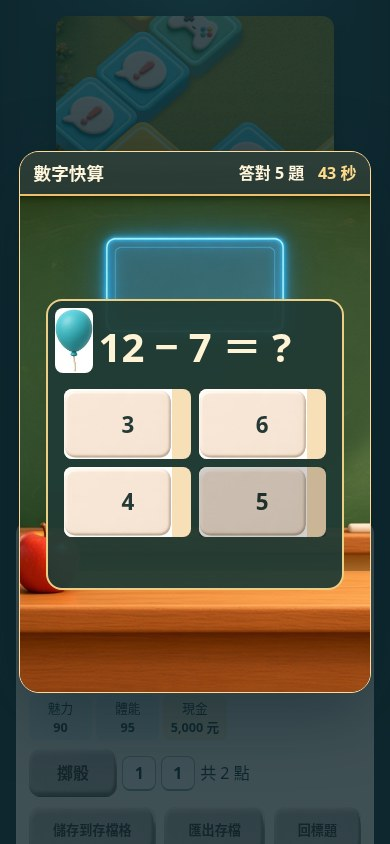
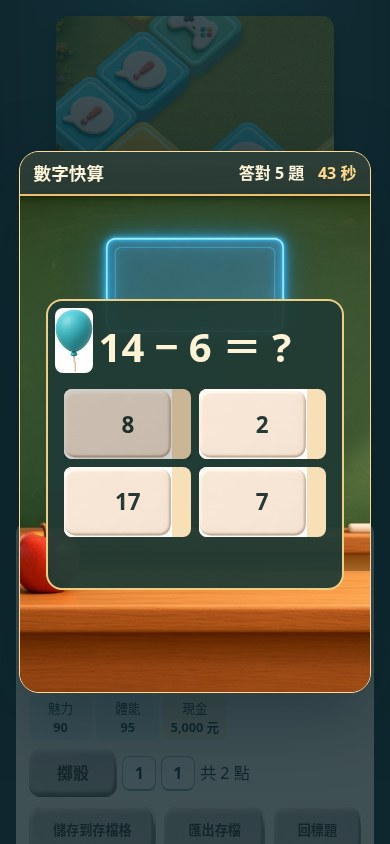
Randomize the sorted rank of mental math answers

diff --git a/src/game/minigames.ts b/src/game/minigames.ts
@@ -108,11 +108,34 @@ export function memoryDeck(random = Math.random) {
 export function mathQuestion(random = Math.random) {
   const integer = (max: number) => 1 + Math.floor(random() * max);
   const operation = integer(3);
-  const a = integer(operation === 3 ? 9 : 20);
-  const b = integer(operation === 2 ? a : operation === 3 ? 9 : 20);
+  // A minimum answer of 4 leaves room for three lower choices with a gap.
+  const a =
+    operation === 2 ? 4 + integer(16) : 1 + integer(operation === 3 ? 8 : 19);
+  const b =
+    operation === 2 ? integer(a - 4) : 1 + integer(operation === 3 ? 8 : 19);
   const answer = operation === 1 ? a + b : operation === 2 ? a - b : a * b;
-  const first = Math.max(0, answer - 2);
-  const options = Array.from({ length: 4 }, (_, i) => first + i);
+  const lowerCount = integer(4) - 1;
+  const upperCount = 3 - lowerCount;
+  const lower = shuffle(
+    Array.from({ length: Math.min(answer, 10) }, (_, i) => answer - i - 1),
+    random,
+  );
+  const upper = shuffle(
+    Array.from({ length: 10 }, (_, i) => answer + i + 1),
+    random,
+  );
+  // Reserve one wrong answer at least four away so the set always has a gap.
+  const gapSide = upperCount > 0 ? upper : lower;
+  const [gap] = gapSide.splice(
+    gapSide.findIndex((option) => Math.abs(option - answer) >= 4),
+    1,
+  );
+  const options = [
+    answer,
+    gap,
+    ...lower.slice(0, lowerCount - Number(gapSide === lower)),
+    ...upper.slice(0, upperCount - Number(gapSide === upper)),
+  ];
   return {
     prompt: `${a} ${["＋", "−", "×"][operation - 1]} ${b} ＝ ?`,
     answer,

diff --git a/tests/minigames.test.ts b/tests/minigames.test.ts
@@ -140,3 +140,27 @@ test("each arithmetic problem offers exactly one correct answer", () => {
     }
   }
 });
+
+test("arithmetic answers are spread uniformly across the four sorted positions", () => {
+  let seed = 0x8b633e64;
+  const random = () => {
+    seed = (Math.imul(seed, 1664525) + 1013904223) >>> 0;
+    return seed / 2 ** 32;
+  };
+  const ranks = [0, 0, 0, 0];
+  const count = 4000;
+  for (let i = 0; i < count; i++) {
+    const { answer, options } = mathQuestion(random);
+    const sorted = [...options].sort((a, b) => a - b);
+    expect(options).toHaveLength(4);
+    expect(new Set(options).size).toBe(4);
+    expect(sorted[0]).toBeGreaterThanOrEqual(0);
+    expect(sorted[3] - sorted[0]).toBeGreaterThan(3);
+    expect(options.filter((option) => option === answer)).toHaveLength(1);
+    ranks[sorted.indexOf(answer)]++;
+  }
+  for (const rank of ranks) {
+    expect(rank / count).toBeGreaterThan(0.22);
+    expect(rank / count).toBeLessThan(0.28);
+  }
+});
